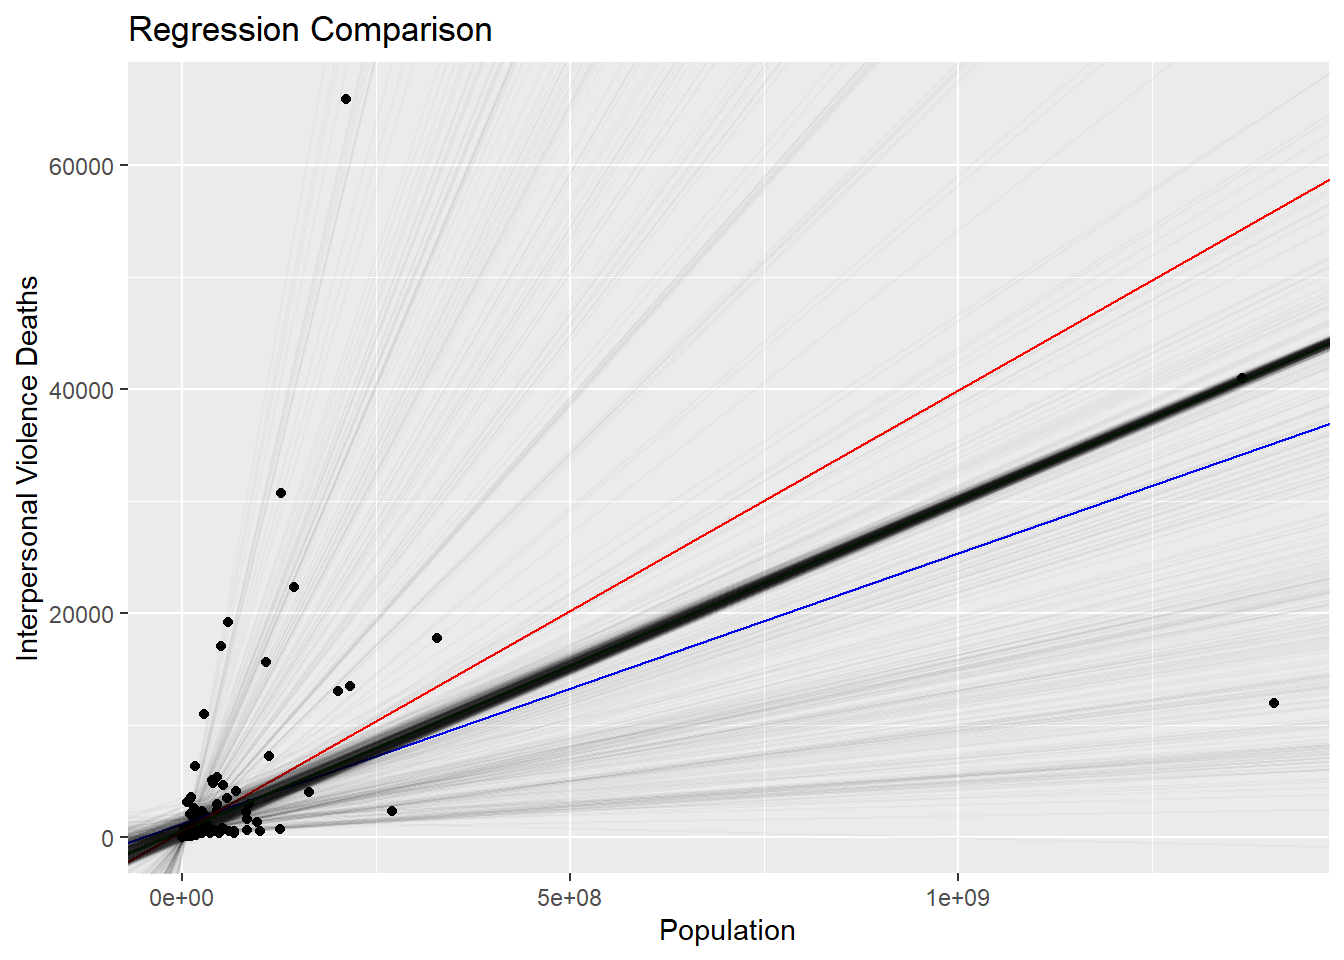
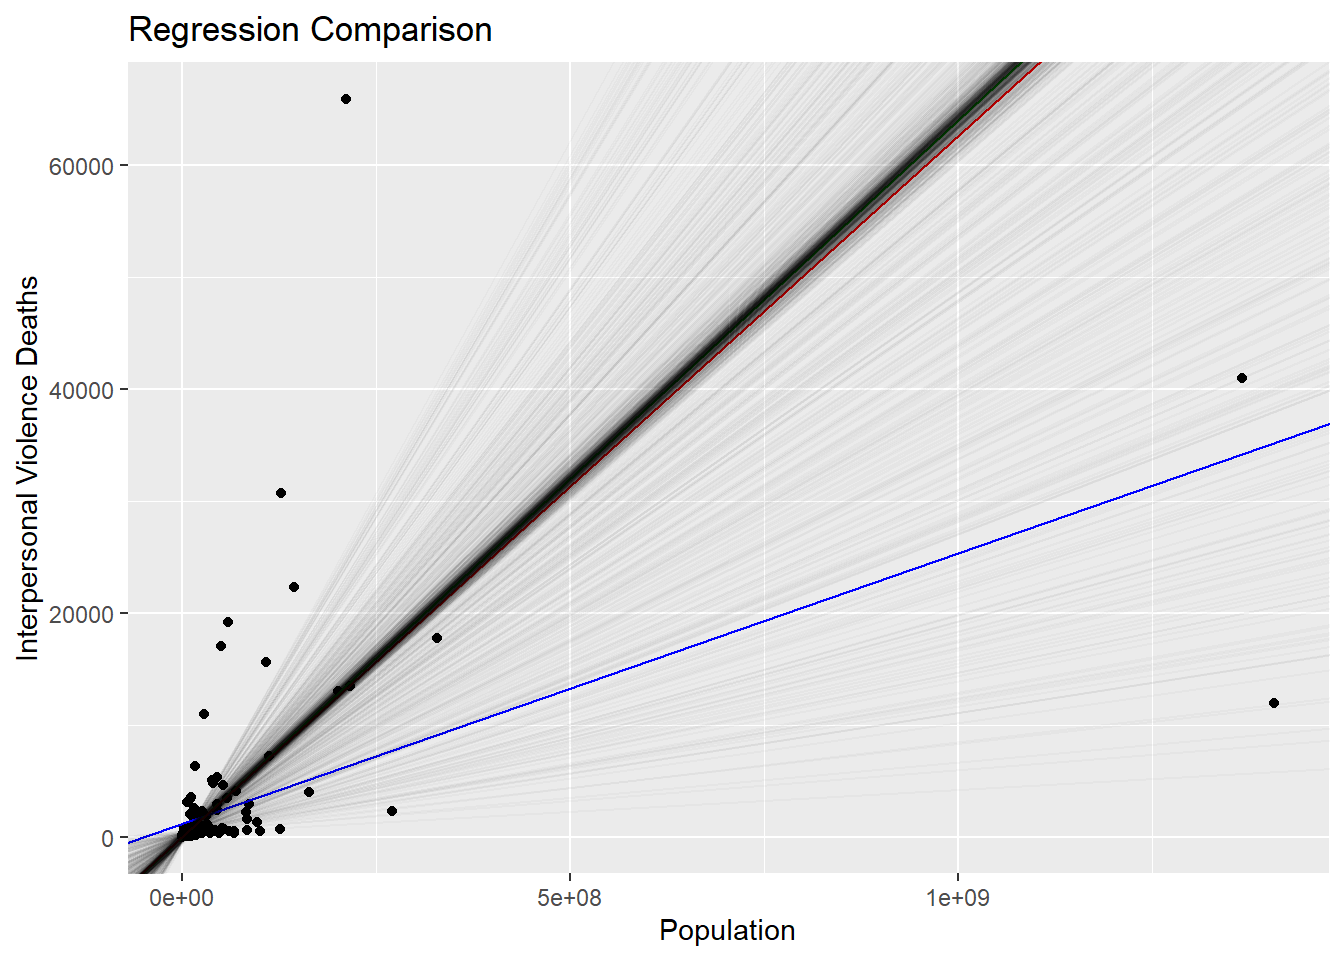
build report

diff --git a/Bootstrapping-Group-Report.html b/Bootstrapping-Group-Report.html
@@ -9,7 +9,7 @@
 <meta name="author" content="Caelan Bryan">
 <meta name="author" content="Jenna Dufresne">
 <meta name="author" content="Jamielee Jimenez Perez">
-<meta name="dcterms.date" content="2022-11-22">
+<meta name="dcterms.date" content="2022-11-28">
 
 <title>Bootstrapping</title>
 <style>
@@ -148,7 +148,7 @@ div.csl-indent {
       <div>
       <div class="quarto-title-meta-heading">Published</div>
       <div class="quarto-title-meta-contents">
-        <p class="date">November 22, 2022</p>
+        <p class="date">November 28, 2022</p>
       </div>
     </div>
     
@@ -383,12 +383,12 @@ div.csl-indent {
 <div class="sourceCode cell-code" id="cb7"><pre class="sourceCode r code-with-copy"><code class="sourceCode r"><span id="cb7-1"><a href="#cb7-1" aria-hidden="true" tabindex="-1"></a><span class="co"># Display some estimated means</span></span>
 <span id="cb7-2"><a href="#cb7-2" aria-hidden="true" tabindex="-1"></a><span class="fu">head</span>(boot_estimated_means)</span></code><button title="Copy to Clipboard" class="code-copy-button"><i class="bi"></i></button></pre></div>
 <div class="cell-output cell-output-stdout">
-<pre><code>[1] 0.3560262 0.3591422 0.4005843 0.3786600 0.3728687 0.3217062</code></pre>
+<pre><code>[1] 0.3262404 0.3180399 0.3264991 0.3113746 0.3159988 0.3275520</code></pre>
 </div>
 <div class="sourceCode cell-code" id="cb9"><pre class="sourceCode r code-with-copy"><code class="sourceCode r"><span id="cb9-1"><a href="#cb9-1" aria-hidden="true" tabindex="-1"></a><span class="co"># Display some estimated standard deviations</span></span>
 <span id="cb9-2"><a href="#cb9-2" aria-hidden="true" tabindex="-1"></a><span class="fu">head</span>(boot_estimated_sds)</span></code><button title="Copy to Clipboard" class="code-copy-button"><i class="bi"></i></button></pre></div>
 <div class="cell-output cell-output-stdout">
-<pre><code>[1] 0.08782456 0.10642160 0.12351007 0.10787915 0.09384863 0.06597414</code></pre>
+<pre><code>[1] 0.1636377 0.1344489 0.1515566 0.1470695 0.1277181 0.1376071</code></pre>
 </div>
 </div>
 <p>In order to create a 95% confidence interval for the population mean and standard deviation, the top and bottom 2.5% of saved means and standard deviations can be trimmed.</p>
@@ -403,13 +403,13 @@ div.csl-indent {
 <span id="cb11-8"><a href="#cb11-8" aria-hidden="true" tabindex="-1"></a>boot_estimated_means <span class="ot">&lt;-</span> boot_estimated_means[start<span class="sc">:</span>end]</span>
 <span id="cb11-9"><a href="#cb11-9" aria-hidden="true" tabindex="-1"></a>boot_estimated_sds <span class="ot">&lt;-</span> boot_estimated_sds[start<span class="sc">:</span>end]</span></code><button title="Copy to Clipboard" class="code-copy-button"><i class="bi"></i></button></pre></div>
 </div>
-<p>Now, by retrieving the first and last element in both the mean and standard deviation vectors, the 95% estimated population intervals can be constructed. The 95% confidence interval for the population mean is [0.3181, 0.4141] or [31.81%, 41.41%]. The 95% confidence interval for the population standard deviation is [0.0729, 0.1419] or [7.29%, 14.19%].</p>
+<p>Now, by retrieving the first and last element in both the mean and standard deviation vectors, the 95% estimated population intervals can be constructed. The 95% confidence interval for the population mean is [0.2296, 0.35] or [22.96%, 35%]. The 95% confidence interval for the population standard deviation is [0.1044, 0.173] or [10.44%, 17.3%].</p>
 <p>To evaluate the accuracy of the estimated population mean and standard deviation for the rate of deaths caused by cardiovascular diseases, the population mean and standard deviation found from the full population can be compared to the estimated confidence intervals. The true population statistics should fall within the confidence interval range. In this case:</p>
 <center>
-<span class="math inline">\(0.3181 &gt; 0.3273 &gt; 0.4141\)</span>
+<span class="math inline">\(0.2296 &gt; 0.3273 &gt; 0.35\)</span>
 </center>
 <center>
-<span class="math inline">\(0.0729 &gt; 0.1309 &gt; 0.1419\)</span>
+<span class="math inline">\(0.1044 &gt; 0.1309 &gt; 0.173\)</span>
 </center>
 <div class="cell">
 <div class="sourceCode cell-code" id="cb12"><pre class="sourceCode r code-with-copy"><code class="sourceCode r"><span id="cb12-1"><a href="#cb12-1" aria-hidden="true" tabindex="-1"></a><span class="co"># Display a histogram of the estimated means from the Bootstrap samples</span></span>
@@ -470,14 +470,14 @@ div.csl-indent {
 <tr class="odd">
 <td>(Intercept)</td>
 <td>1183.7272946</td>
-<td>645.2881166</td>
-<td>578.8878692</td>
+<td>28.7857556</td>
+<td>48.1673154</td>
 </tr>
 <tr class="even">
 <td>x</td>
 <td>2.4147731^{-5}</td>
-<td>2.943504^{-5}</td>
-<td>3.9369268^{-5}</td>
+<td>6.4009418^{-5}</td>
+<td>6.2586918^{-5}</td>
 </tr>
 </tbody>
 </table>
